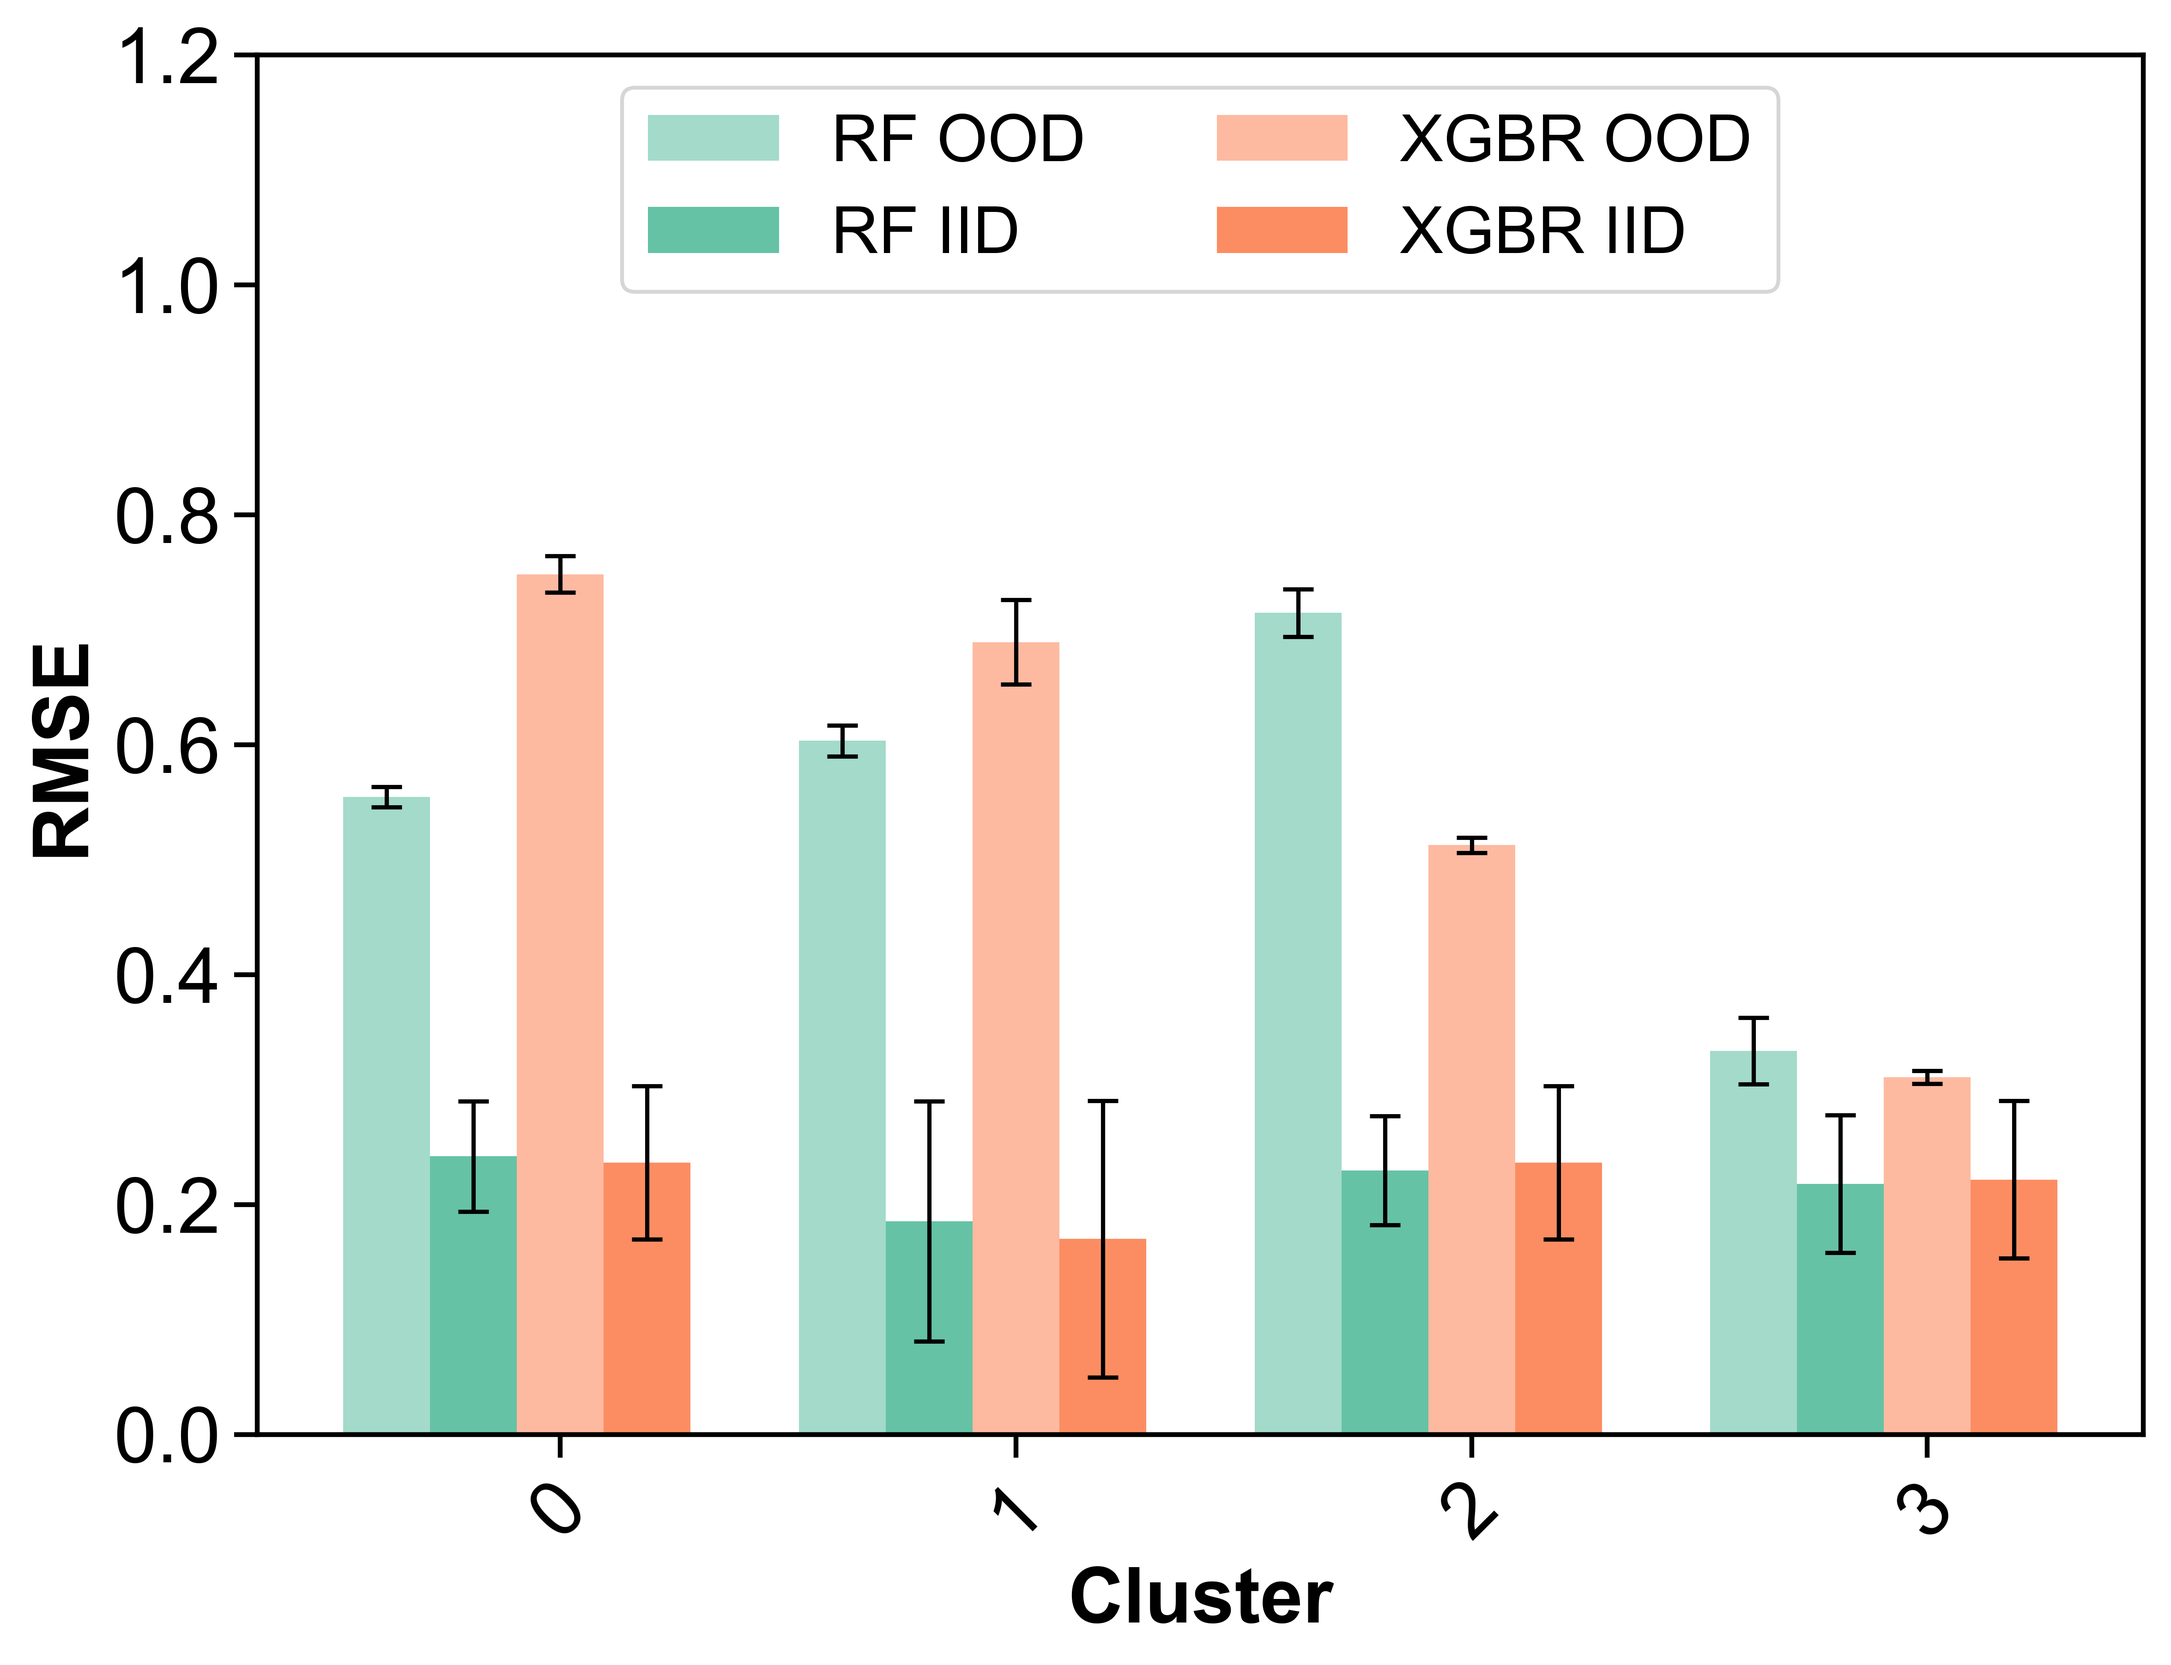
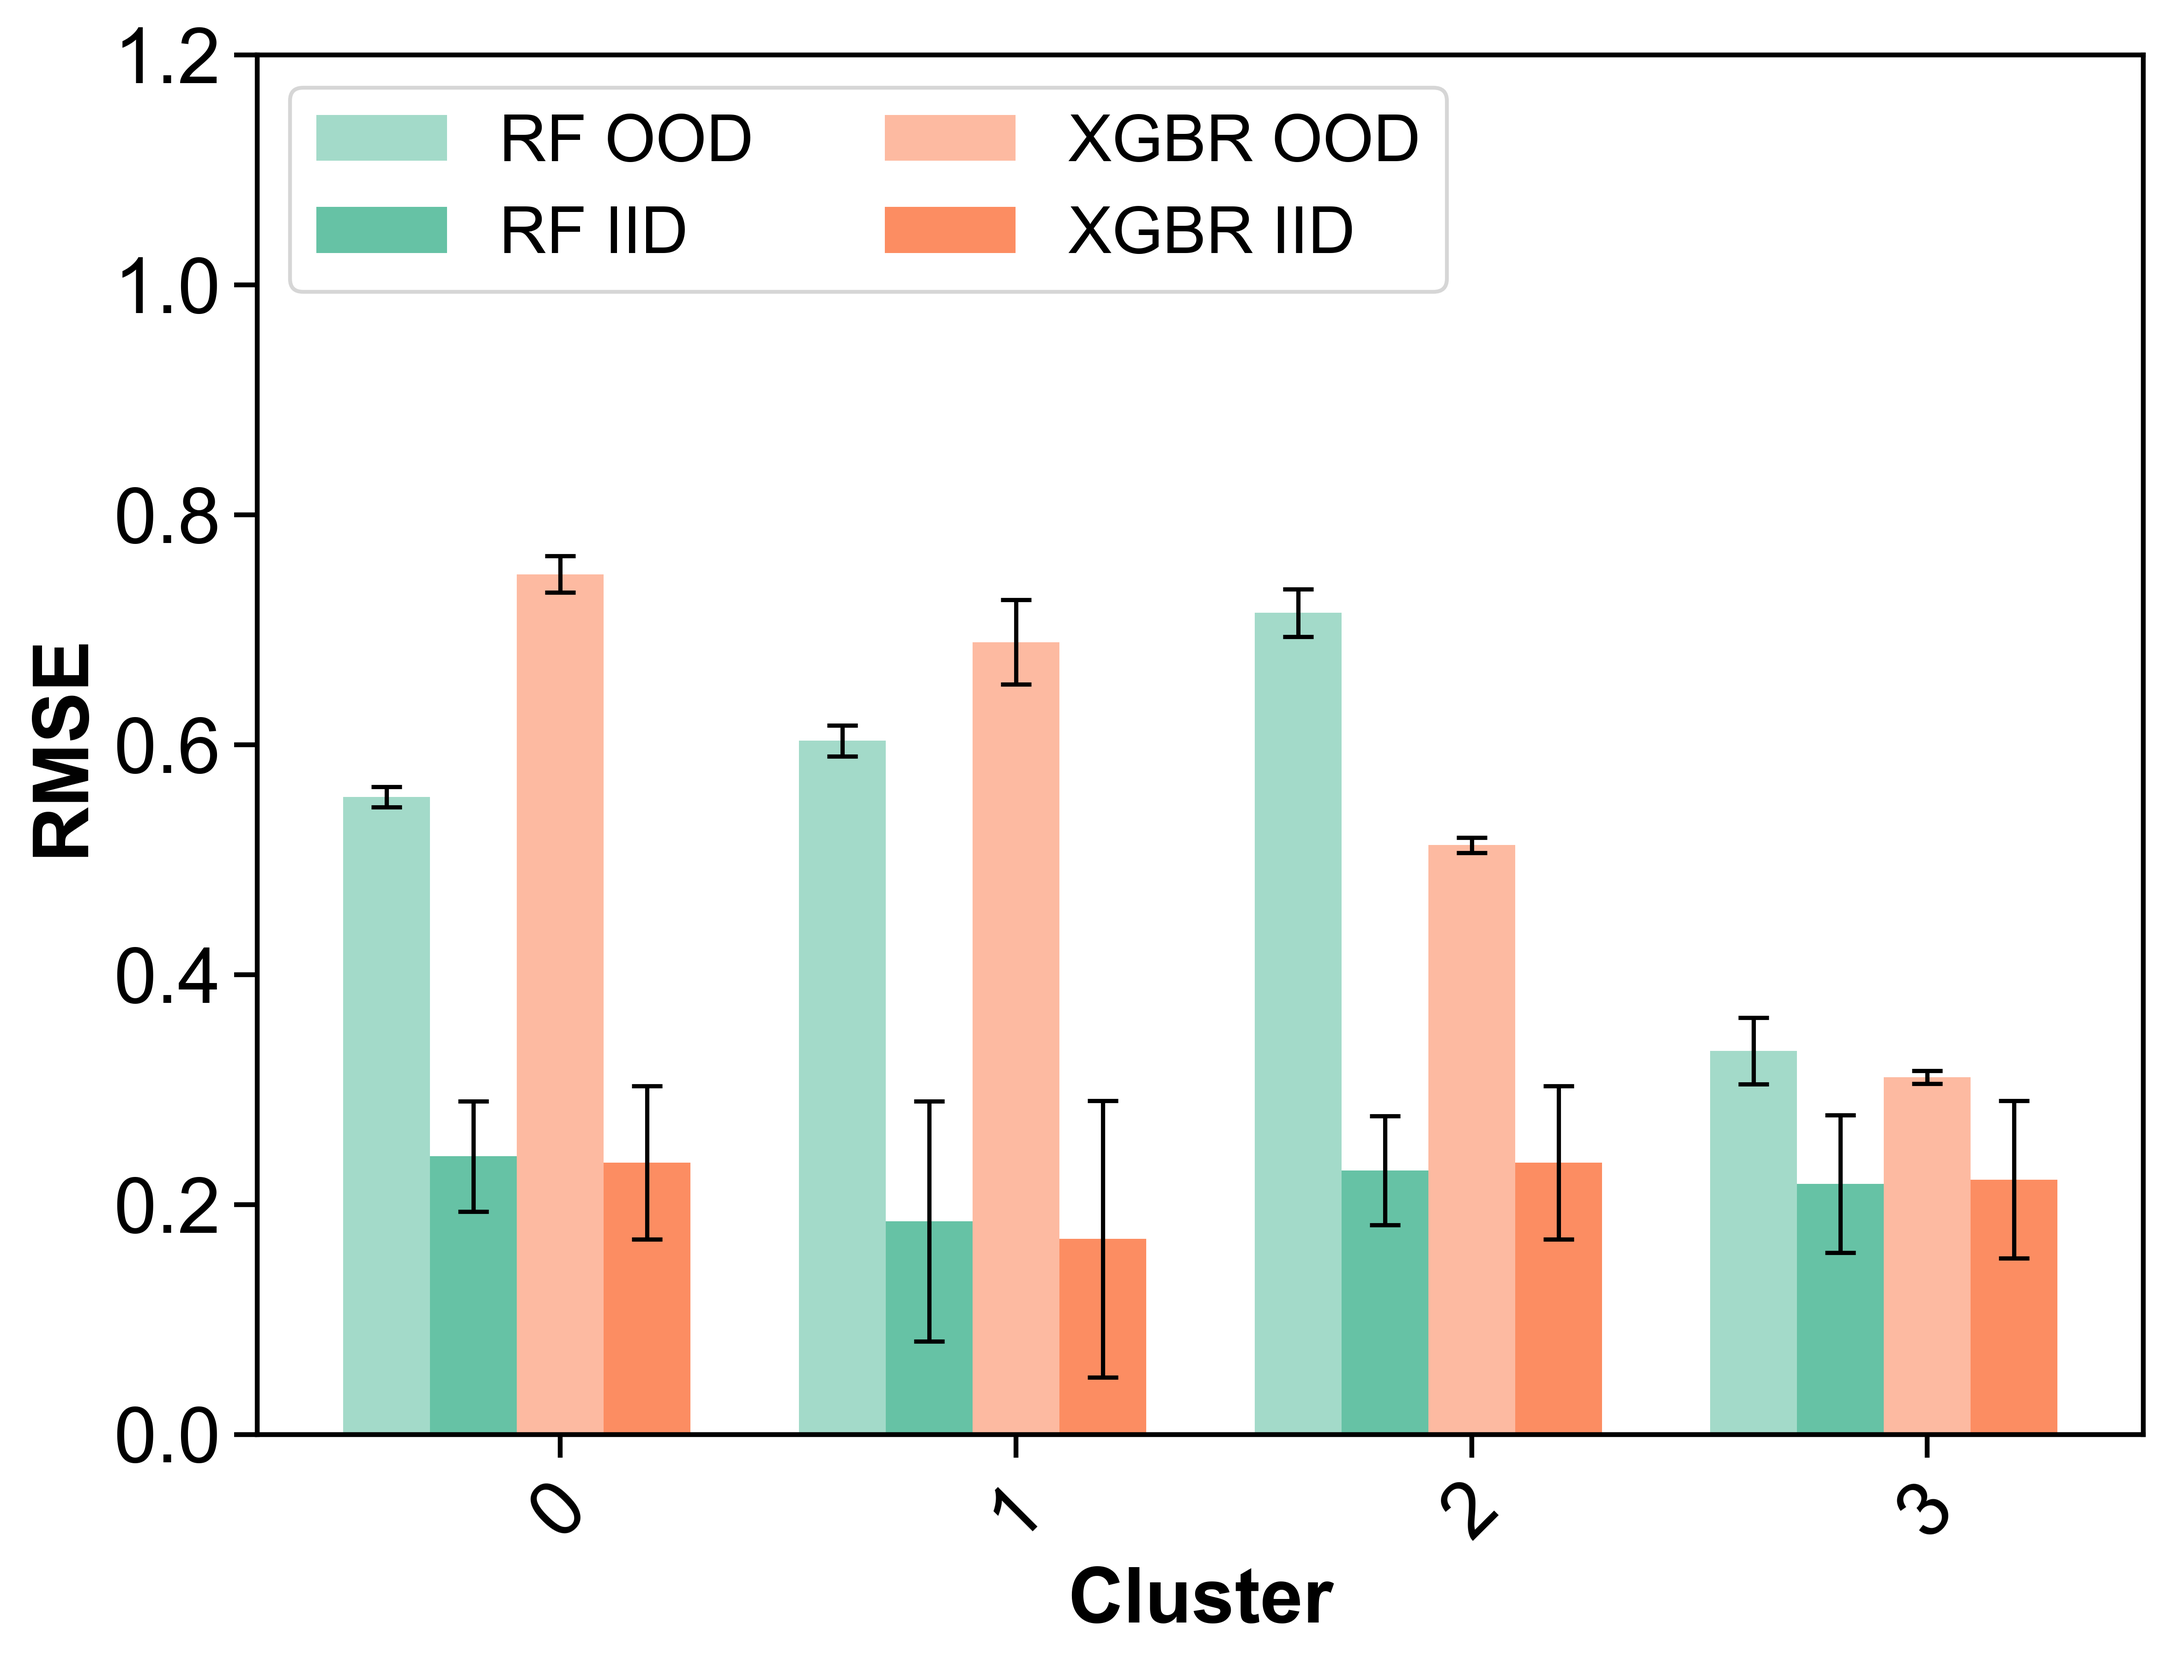
updated

Changed region(s): [[0.1242, 0.0621, 0.8075, 0.1553]]

diff --git a/code_/visualization/visualize_ood_full_data.py b/code_/visualization/visualize_ood_full_data.py
@@ -241,8 +241,7 @@ def plot_OOD_Score_vs_distance(df, ml_score_metric: str,
     plt.tight_layout(rect=[0, 0, 1, 1.05])
     # plt.tight_layout()
     if saving_path and file_name:
-        plt.savefig(saving_path / f"{file_name}_distance_metric-Wasserstein.png", dpi=300)
-
+        save_img_path(saving_path, f"{file_name}_distance_metric-Wasserstein.png")
     plt.show()
     plt.close()
 
@@ -265,10 +264,10 @@ if __name__ == "__main__":
                     # 'HBD3 MACCS cluster',
                     # 'KM5 polymer_solvent HSP and polysize cluster',
                     # 'KM4 polymer_solvent HSP and polysize cluster',
-                    # 'substructure cluster',
-                    # 'KM4 polymer_solvent HSP cluster',
+                    'substructure cluster',
+                    'KM4 polymer_solvent HSP cluster',
                     # 'KM4 Mordred_Polysize cluster',
-                    'Polymers cluster',
+                    # 'Polymers cluster',
                     ]
     for cluster in cluster_list:
         score_metrics = ["rmse"]
@@ -333,7 +332,7 @@ if __name__ == "__main__":
             
             combined_data = []
             ood_iid_bar_combined_models = []
-            OOD_IID_distance = True
+            OOD_IID_distance = False
             ncol = 0
             for model in ['RF', 'XGBR']:
                 scores_folder_path = results_path / cluster / 'scaler'
@@ -350,19 +349,19 @@ if __name__ == "__main__":
                 ncol+=1
    
 
-            saving_folder = scores_folder_path/  f'scores vs distance (full data)'/ f"{co_vector}"
-            f_name = f"{co_vector}_{accuracy_metric}" 
-            f_name =  f"{f_name}_OOD-IID" if OOD_IID_distance else f"{f_name}_OOD"
-            plot_OOD_Score_vs_distance(combined_data, accuracy_metric, co_vector=co_vector,
-                                        saving_path=saving_folder, file_name=f_name,
-                                        is_ood_iid_distance=OOD_IID_distance,figsize=(11,5.7))
-            print('Plot scores vs distance (full data)')
+            # saving_folder = scores_folder_path/  f'scores vs distance (full data)'/ f"{co_vector}"
+            # f_name = f"{co_vector}_{accuracy_metric}" 
+            # f_name =  f"{f_name}_OOD-IID" if OOD_IID_distance else f"{f_name}_OOD"
+            # plot_OOD_Score_vs_distance(combined_data, accuracy_metric, co_vector=co_vector,
+            #                             saving_path=saving_folder, file_name=f_name,
+            #                             is_ood_iid_distance=OOD_IID_distance,figsize=(11,5.7))
+            # print('Plot scores vs distance (full data)')
 
 
-            # saving_folder = scores_folder_path/  f'OOD-IID bar plot (full data)'
-            # plot_bar_ood_iid(pd.DataFrame(ood_iid_bar_combined_models), accuracy_metric,
-            #                 saving_folder,f'metric-{accuracy_metric}', 
-            #                 figsize=(18, 6), text_size=20,ncol=ncol)
+            saving_folder = scores_folder_path/  f'OOD-IID bar plot (full data)'
+            plot_bar_ood_iid(pd.DataFrame(ood_iid_bar_combined_models), accuracy_metric,
+                            saving_folder,f'metric-{accuracy_metric}', 
+                            figsize=(8, 6), text_size=20,ncol=ncol)
 
 
 
